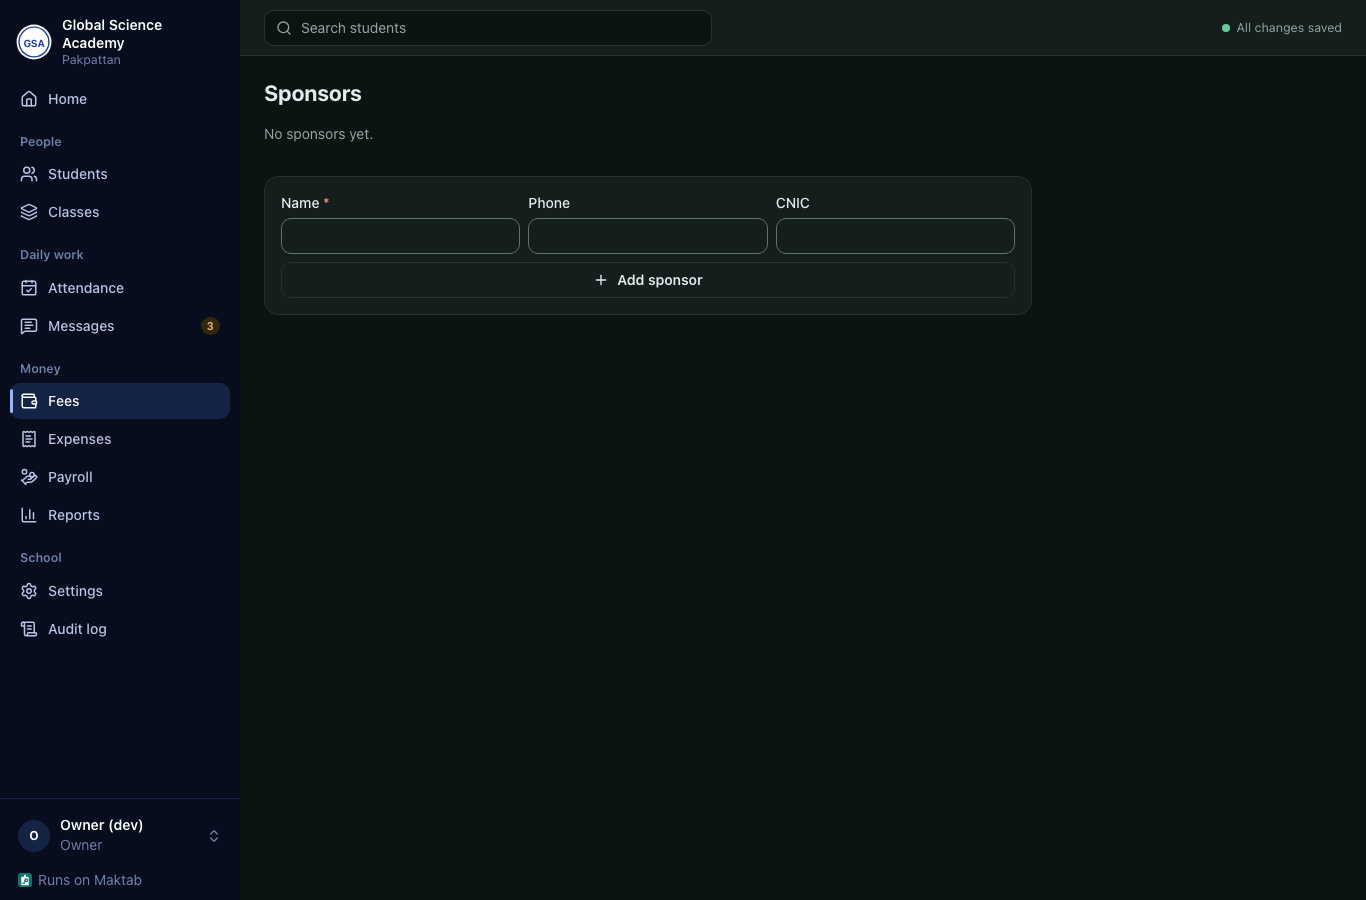
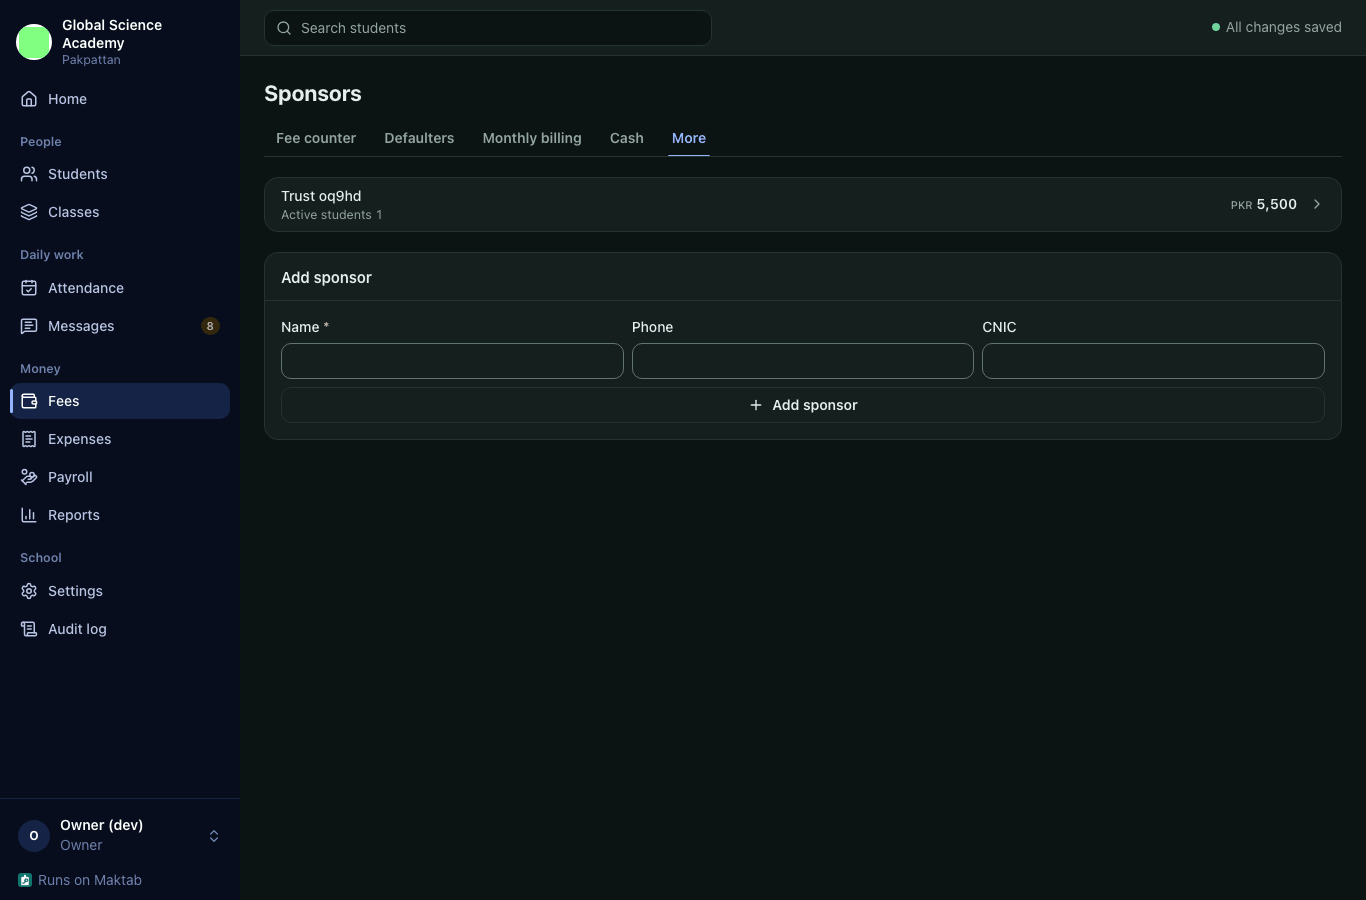
docs(m7b-2): fix-pass deviations in PLAN; rebuilt screens and the Urdu receipt re-shot
- PLAN: profile "Message"/"Change photo" header actions deferred; Fee register asks for a class;
  run history capped with "Show all"; Re-open/Apply fines unchanged; Sponsors/Expenses light pass.
- Screenshots (palette-quantised): Fee register (+ the choose-a-class state), Concessions,
  Advances, Billing in 8 variants; Sponsors and Expenses in 4; the Urdu receipt result on current
  code (date reads 13 اکتوبر، 2026). SCREENSHOTS.md gains the M7b part 2 section.

Claude-Session: https://claude.ai/code/session_01V6FDeEpgCjdNnaQ9fAPwE3

diff --git a/docs/PLAN.md b/docs/PLAN.md
@@ -40,6 +40,7 @@ Non-goals for now: multi-school SaaS, online payment gateways, LMS/content deliv
 | 2026-10-13 | **UI/UX polish adopted as M7b** from `docs/ui-enhancement-plan.md` + `docs/design/ui-mock.html`: "calm ledger" direction, school-in-front branding (badge, name, curated accent colour; "Runs on Maktab" line), grouped navigation + phone bottom bar, five-step setup incl. Fees, dark mode, generated badge for schools without a logo. Decisions: density 36 px on fine pointers / 44 px on touch (rule amended; verifiers emulate touch); system fonts for Latin; Fees hub = Counter/Defaulters/Billing/Cash tabs, Concessions/Sponsors/Fee register/Collection under "More" + Reports; per-school installed icon/name after the pilot; school picks its colour in setup (GSA placeholder blue). Additions owed by M7b: badge on parent page + printed receipts, teacher/accountant home variants, Urdu mirroring of the new shell, empty/loading/offline states, "Needs attention" fed by M6 alarms, install prompt, contrast/focus checks. Runs after M7a, before the pilot gate. Pilot school: **Global Science Academy, Pakpattan (GSA)** | Product-owner decision (Fable), user delegated |
 | 2026-10-13 | M7b-1 deviations: teacher bottom bar = Home/Attendance/Messages (not My groups); register marks stay solid-fill for sunlight readability; per-school phone icon preview tile removed until §6.5 ships. Also: the teacher menu keeps "Dues" (their groups' dues summary) and "My payslips" (their own slip) by design — "teacher home shows no money" means no amounts of other people or of the school, not no money screens | M7b part 1 review and browser verify |
 | 2026-10-13 | M7b-2 (screens) deviations: new screen strings live in `packages/shared/src/i18n-screens.ts` and are merged into i18next by the lazy screens (English `en` is in the first-load chunk; headroom ≈ 4 KB), Urdu stays in `i18n-ur`; register marks keep the solid-fill **cycle** (M7b-1 decision) rather than four direct buttons; cards app-wide take the Panel look instead of rewriting Billing/Cash/Concessions/Sponsors/Fee register/Advances/Reports onto `Panel` one by one; Fees hub tabs are links (each tab is its own URL); two additive API reads: `GET /api/messages?family_id=` (inside message scope) and owner-only `GET /api/home/first-week` (yes/no facts), plus `family_id` on dashboard absentees; secondary screens shot in 4 variants (each axis covered) instead of 8, PNGs palette-quantised | M7b part 2 build |
+| 2026-10-13 | M7b-2 fix pass deviations: the student profile header has no "Message" or "Change photo" action yet (deferred: messaging a family stays in the Messages queue and the photo is still changed from the Overview tab's photo picker until the header gets its own upload flow); the Fee register asks for a class before it loads anything (no default class); the billing run history shows the latest 6 chunks with "Show all"; Billing's Re-open and Apply fines keep their one-click behaviour (no new confirm step, money rules unchanged); Sponsors and Expenses got the light pass only (Panel/StatStrip/FeesTabs; DataTable phone cards with a wider label column) | M7b part 2 review |
 
 ## 3. Who uses it
 

diff --git a/docs/SCREENSHOTS.md b/docs/SCREENSHOTS.md
@@ -31,6 +31,15 @@ Pakpattan) and Al-Noor (uploaded logo). They need migration **0024_m7b_school_id
   "<origin>/payslips/<id>/print?lang=en|ur" --expect 1 --wait-for '[data-lang]' --cookie <dev session>`
   gives `pages=1 sizes=420×595` (A5) in both languages.
 
+## M7b part 2 (captured): `docs/design/m7b-2/`
+
+Same local setup as part 1 (smoke data, demo names only). Name pattern:
+`<area>-<screen>-<phone|desktop>-<en|ur>-<light|dark>.png`; phone 390 px at 2×, desktop 1366 px;
+PNGs palette-quantised. Primary screens have all 8 variants, secondary screens 4 (each axis
+covered). Fix pass: the rebuilt Fee register (`fees-register-*`, plus `fees-register-choose-*` for
+the "choose a class" state), Concessions, Advances and Billing in all 8 variants; Sponsors and
+Expenses re-shot in 4; the Urdu receipt result (`fees-receipt-*-ur-*`) re-shot after the date fix.
+
 ## To capture (onboarding guide)
 
 Referenced from `docs/onboarding.md` by id. None captured yet. Use demo data only (seed), never a
